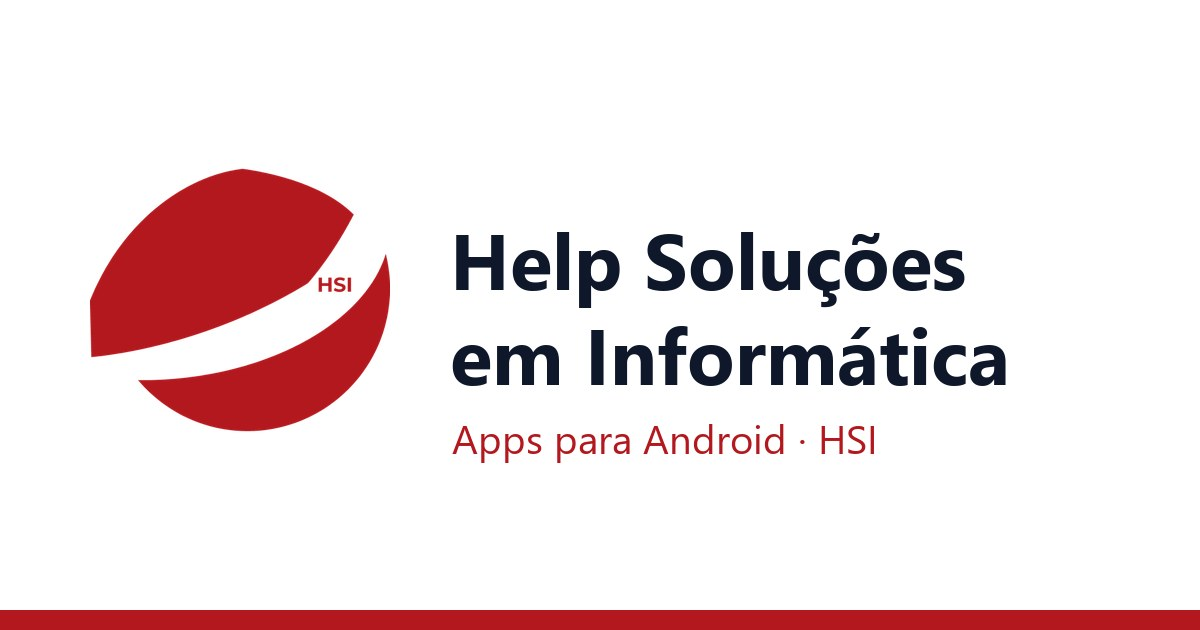
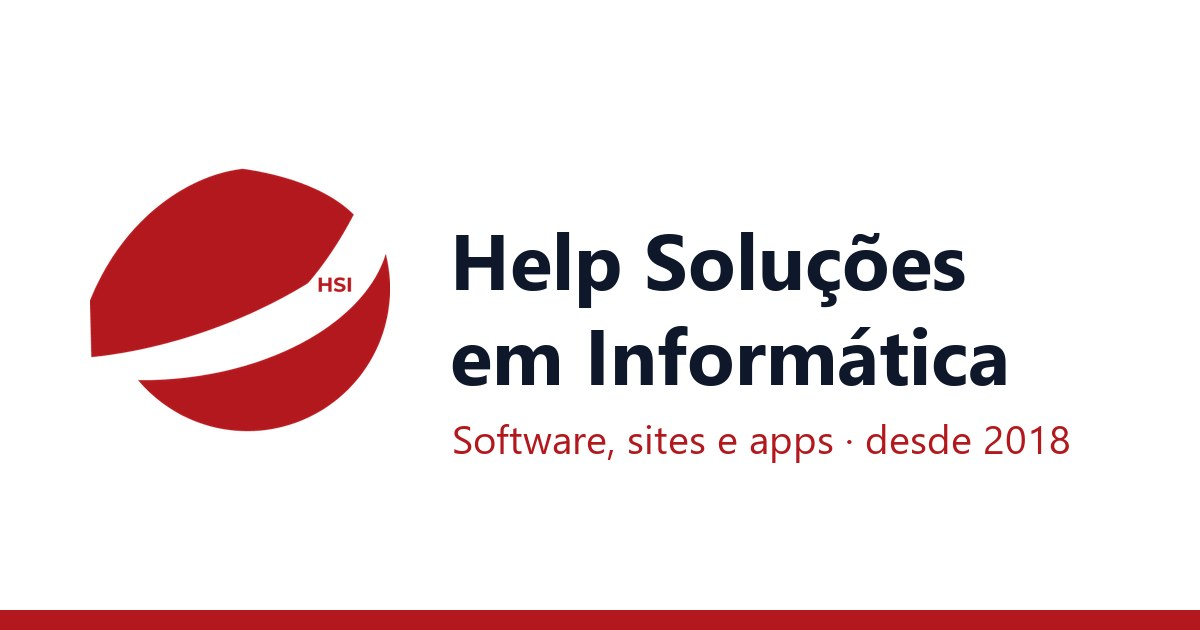
Present HSI as a software company: services, founding date, about
Services section based on the company's registered activities (custom
software, websites, apps, integrations/ERP, cloud, AI, consulting, support
and training), founding date from the CNPJ record, broader SEO and
Organization JSON-LD, apps moved to an "Apps próprios" section.

Changed region(s): [[0.37, 0.6635, 0.8942, 0.7238]]

diff --git a/src/App.tsx b/src/App.tsx
@@ -1,5 +1,6 @@
 import type { ReactNode } from 'react'
-import { apps, company, playUrl, type AppInfo } from './data/site'
+import { apps, company, playUrl, services, type AppInfo } from './data/site'
+import { Icon } from './Icons'
 import { appPath, privacyPath, resolveRoute } from './routes'
 
 function Header() {
@@ -14,6 +15,7 @@ function Header() {
           </span>
         </a>
         <nav className="nav" aria-label="Principal">
+          <a href="/#servicos">Serviços</a>
           <a href="/#apps">Apps</a>
           <a href="/#sobre">Sobre</a>
           <a href="/#contato">Contato</a>
@@ -79,23 +81,26 @@ function AppIcon({ app, size }: { app: AppInfo; size: number }) {
 }
 
 function Home() {
+  const quote = `mailto:${company.email}?subject=${encodeURIComponent('Orçamento')}`
   return (
     <>
       <section className="hero">
         <div className="container hero-inner">
           <div>
-            <p className="eyebrow">{company.shortName} · Apps para Android</p>
+            <p className="eyebrow">
+              {company.shortName} · Desde {company.foundingYear} · {company.city} – {company.state}
+            </p>
             <h1>{company.name}</h1>
             <p className="lead">
-              Apps simples e úteis para o dia a dia: organizar eventos, marcar o placar do jogo, achar o carro no
-              estacionamento e falar com uma assistente por voz.
+              Desenvolvimento de software sob encomenda, sites, apps para celular, integrações e consultoria em TI, com a
+              experiência de mais de 20 anos em tecnologia do nosso fundador.
             </p>
             <div className="hero-actions">
-              <a className="btn" href="#apps">
-                Conheça os apps
+              <a className="btn" href="#servicos">
+                Nossos serviços
               </a>
-              <a className="btn btn-ghost" href="#contato">
-                Fale com a gente
+              <a className="btn btn-ghost" href={quote}>
+                Peça um orçamento
               </a>
             </div>
           </div>
@@ -103,9 +108,34 @@ function Home() {
         </div>
       </section>
 
+      <section className="section" id="servicos">
+        <div className="container">
+          <h2 className="section-title">O que fazemos</h2>
+          <div className="service-grid">
+            {services.map(s => (
+              <article key={s.title} className="card service-card">
+                <span className="service-icon">
+                  <Icon name={s.icon} />
+                </span>
+                <h3>{s.title}</h3>
+                <p>{s.text}</p>
+                <ul className="chips" aria-label="Tecnologias">
+                  {s.tech.map(t => (
+                    <li key={t}>{t}</li>
+                  ))}
+                </ul>
+              </article>
+            ))}
+          </div>
+        </div>
+      </section>
+
       <section className="section" id="apps">
         <div className="container">
-          <h2 className="section-title">Nossos apps</h2>
+          <h2 className="section-title">Apps próprios</h2>
+          <p className="section-intro muted">
+            Além dos projetos para clientes, a {company.shortName} desenvolve e publica os seus próprios apps para Android.
+          </p>
           <div className="app-grid">
             {apps.map(app => (
               <a key={app.slug} className="card app-card" href={appPath(app)}>
@@ -126,23 +156,32 @@ function Home() {
         <div className="container narrow">
           <h2 className="section-title">Sobre a {company.shortName}</h2>
           <p>
-            A {company.name} ({company.shortName}) é uma empresa de software de {company.city} – {company.state}. Criamos
-            apps que resolvem uma coisa só, e bem: sem cadastro, sem complicação e, sempre que possível, com os seus dados
-            guardados apenas no seu celular.
+            A {company.name} ({company.shortName}) é uma empresa de tecnologia de {company.city} – {company.state}, aberta em{' '}
+            {company.foundingYear}. Ela formalizou a consultoria que o nosso fundador mantinha desde 2013, que desenvolveu
+            aplicações web para mais de 20 empresas no Brasil, na Argentina, no Peru e na Colômbia.
           </p>
           <p>
-            A empresa foi fundada por <a href={company.founderUrl}>{company.founder}</a>, engenheiro de software sênior com
-            mais de 20 anos em tecnologia.
+            O fundador, <a href={company.founderUrl}>{company.founder}</a>, é engenheiro de software sênior com mais de 20
+            anos em tecnologia e passagens por empresas como IBM, Sony, Bradesco e Jadlog. Trabalha com desenvolvimento full
+            stack, arquitetura de software, integração de sistemas, ERP, DevOps e desenvolvimento assistido por IA.
+          </p>
+          <p>
+            Nos nossos apps, seguimos uma regra simples: resolver uma coisa só, e bem, sem cadastro e, sempre que possível,
+            com os seus dados guardados apenas no seu celular.
           </p>
         </div>
       </section>
 
       <section className="section" id="contato">
         <div className="container narrow">
-          <h2 className="section-title">Contato e suporte</h2>
+          <h2 className="section-title">Contato</h2>
           <p>
-            Encontrou um problema, tem uma sugestão ou quer pedir a exclusão de dados? Escreva para{' '}
-            <a href={`mailto:${company.email}`}>{company.email}</a> e diga qual app você usa.
+            <strong>Tem um projeto?</strong> Conte o que você precisa para{' '}
+            <a href={quote}>{company.email}</a> e responderemos com uma proposta.
+          </p>
+          <p>
+            <strong>Usa um dos nossos apps?</strong> Para suporte, sugestões ou pedidos sobre os seus dados, escreva para o
+            mesmo e-mail e diga qual app você usa.
           </p>
         </div>
       </section>

diff --git a/src/data/site.ts b/src/data/site.ts
@@ -12,6 +12,9 @@ export const company = {
   founder: 'Leonardo Neves',
   founderUrl: 'https://leoneves-eng-de-software.web.app/',
   siteUrl: 'https://hsi-help-solucoes.web.app',
+  // From the public CNPJ record (Receita Federal): activity start date.
+  foundingDate: '2018-09-03',
+  foundingYear: '2018',
   logo: '/img/logo-hsi-512.png',
   ogImage: '/img/og-image.jpg',
   // Google Search Console HTML-tag token (content="..."). Empty = no tag.
@@ -21,7 +24,62 @@ export const company = {
   lastUpdatedLabel: '15 de novembro de 2026',
 }
 
-export type Permission = { name: string; why: string }
+export type ServiceIcon = 'code' | 'web' | 'mobile' | 'plug' | 'cloud' | 'ai' | 'compass' | 'wrench'
+export type Service = { icon: ServiceIcon; title: string; text: string; tech: string[] }
+
+/** Services offered (CNAEs of the company + the founder's experience). */
+export const services: Service[] = [
+  {
+    icon: 'code',
+    title: 'Sistemas sob encomenda',
+    text: 'Sistemas web e APIs feitos sob medida para o seu negócio, do levantamento de requisitos à produção.',
+    tech: ['C#/.NET', 'Java', 'Node.js', 'Python'],
+  },
+  {
+    icon: 'web',
+    title: 'Sites e aplicações web',
+    text: 'Sites institucionais, portfólios e aplicações web rápidas, responsivas e preparadas para aparecer no Google.',
+    tech: ['React', 'Angular', 'Vue', 'SEO'],
+  },
+  {
+    icon: 'mobile',
+    title: 'Apps para celular',
+    text: 'Apps Android e iOS, da ideia à publicação na loja, com a mesma experiência dos nossos apps próprios.',
+    tech: ['Ionic', 'Capacitor', 'Flutter'],
+  },
+  {
+    icon: 'plug',
+    title: 'Integrações e ERP',
+    text: 'Integração entre sistemas por APIs e customização de ERP e plataformas corporativas.',
+    tech: ['REST', 'Infor LN', 'Salesforce', 'ServiceNow'],
+  },
+  {
+    icon: 'cloud',
+    title: 'Cloud e DevOps',
+    text: 'Hospedagem, automação de infraestrutura e entrega contínua, para publicar com segurança e sem sustos.',
+    tech: ['Docker', 'Terraform', 'CI/CD', 'AWS · GCP · Firebase'],
+  },
+  {
+    icon: 'ai',
+    title: 'Inteligência artificial',
+    text: 'Chatbots, assistentes e consultas a dados em linguagem natural, integrados aos seus sistemas.',
+    tech: ['LLMs', 'NLP', 'Watson', 'Gemini'],
+  },
+  {
+    icon: 'compass',
+    title: 'Consultoria em TI',
+    text: 'Arquitetura de software, escolha de tecnologia, revisão de código e planejamento de projetos.',
+    tech: ['Arquitetura', 'Scrum', 'ITIL'],
+  },
+  {
+    icon: 'wrench',
+    title: 'Suporte, manutenção e treinamento',
+    text: 'Manutenção de sistemas existentes, suporte técnico e treinamento em informática para equipes.',
+    tech: ['Manutenção', 'Suporte', 'Treinamento'],
+  },
+]
+
+export type Permission ={ name: string; why: string }
 export type ThirdParty = { name: string; what: string; policyUrl: string }
 
 export type AppInfo = {

diff --git a/src/entry-server.tsx b/src/entry-server.tsx
@@ -1,7 +1,7 @@
 import { StrictMode } from 'react'
 import { renderToString } from 'react-dom/server'
 import App from './App'
-import { company } from './data/site'
+import { company, services } from './data/site'
 import { appPath, resolveRoute, routes } from './routes'
 
 export { company, routes }
@@ -24,6 +24,10 @@ const organization = {
   url: company.siteUrl + '/',
   logo: company.siteUrl + company.logo,
   email: company.email,
+  foundingDate: company.foundingDate,
+  areaServed: 'BR',
+  knowsAbout: services.flatMap(s => s.tech),
+  makesOffer: services.map(s => ({ '@type': 'Offer', itemOffered: { '@type': 'Service', name: s.title, description: s.text } })),
   founder: { '@type': 'Person', name: company.founder, url: company.founderUrl },
   address: { '@type': 'PostalAddress', addressLocality: company.city, addressRegion: company.state, addressCountry: 'BR' },
 }
@@ -36,10 +40,13 @@ export function head(path: string) {
 
   if (route.kind === 'home') {
     return {
-      title: `${company.name} (${company.shortName}) · Apps para Android`,
+      title: `${company.name} (${company.shortName}) · Software, sites e apps em ${company.city}`,
       description:
-        'HSI – Help Soluções em Informática: apps para Android como PlanEvento, Marcador de Jogos, K.I.R.A. e My Spot. ' +
-        'Sem cadastro, com os dados guardados no seu celular.',
+        `HSI – Help Soluções em Informática, desde ${company.foundingYear} em ${company.city}–${company.state}: software sob encomenda, ` +
+        'sites, apps para celular, integrações, cloud e consultoria em TI. Apps próprios: PlanEvento, Marcador de Jogos, K.I.R.A. e My Spot.',
+      keywords:
+        'desenvolvimento de software, software sob encomenda, criação de sites, desenvolvimento de apps, consultoria em TI, ' +
+        `integração de sistemas, ${company.city}, HSI, Help Soluções em Informática`,
       url,
       ogType: 'website',
       ogImage: company.siteUrl + company.ogImage,

diff --git a/src/Icons.tsx b/src/Icons.tsx
@@ -1,0 +1,23 @@
+import type { ServiceIcon } from './data/site'
+
+// Simple inline line icons (24x24, stroke = currentColor) for the services grid.
+const paths: Record<ServiceIcon, string[]> = {
+  code: ['M8 7l-5 5 5 5', 'M16 7l5 5-5 5', 'M13.5 4l-3 16'],
+  web: ['M12 3a9 9 0 1 0 0 18a9 9 0 1 0 0-18', 'M3 12h18', 'M12 3c2.5 2.6 3.8 5.6 3.8 9s-1.3 6.4-3.8 9c-2.5-2.6-3.8-5.6-3.8-9S9.5 5.6 12 3'],
+  mobile: ['M8 2h8a2 2 0 0 1 2 2v16a2 2 0 0 1-2 2H8a2 2 0 0 1-2-2V4a2 2 0 0 1 2-2', 'M11 18h2'],
+  plug: ['M9 2v5', 'M15 2v5', 'M6 7h12v4a6 6 0 0 1-12 0z', 'M12 17v5'],
+  cloud: ['M7 18h10a4 4 0 0 0 .6-7.95A6 6 0 0 0 6.1 9.6 4.2 4.2 0 0 0 7 18'],
+  ai: ['M12 3l1.8 4.7L18.5 9.5l-4.7 1.8L12 16l-1.8-4.7L5.5 9.5l4.7-1.8z', 'M19 15l.8 2.2 2.2.8-2.2.8L19 21l-.8-2.2-2.2-.8 2.2-.8z'],
+  compass: ['M12 3a9 9 0 1 0 0 18a9 9 0 1 0 0-18', 'M15.5 8.5l-2 5-5 2 2-5z'],
+  wrench: ['M14.7 6.3a4 4 0 0 0 5 5L22 13.6 13.6 22l-2.3-2.3a4 4 0 0 0-5-5L3 11.4 11.4 3z', 'M8 16l-5 5'],
+}
+
+export function Icon({ name }: { name: ServiceIcon }) {
+  return (
+    <svg className="icon" viewBox="0 0 24 24" width="24" height="24" fill="none" stroke="currentColor" strokeWidth="1.8" strokeLinecap="round" strokeLinejoin="round" aria-hidden="true">
+      {paths[name].map(d => (
+        <path key={d} d={d} />
+      ))}
+    </svg>
+  )
+}

diff --git a/src/index.css b/src/index.css
@@ -361,3 +361,51 @@ code {
 .nowrap {
   white-space: nowrap;
 }
+
+/* Services */
+.section-intro {
+  margin: -12px 0 24px;
+}
+.service-grid {
+  display: grid;
+  grid-template-columns: repeat(auto-fill, minmax(min(100%, 240px), 1fr));
+  gap: 16px;
+}
+.service-card {
+  padding: 20px;
+  display: flex;
+  flex-direction: column;
+}
+.service-card h3 {
+  font-size: 1.05rem;
+  margin: 12px 0 6px;
+}
+.service-card p {
+  margin: 0 0 12px;
+  font-size: 0.95rem;
+  color: var(--muted);
+}
+.service-icon {
+  display: inline-grid;
+  place-items: center;
+  width: 44px;
+  height: 44px;
+  border-radius: 12px;
+  background: var(--accent-soft);
+  color: var(--accent);
+}
+.chips {
+  list-style: none;
+  padding: 0;
+  margin: auto 0 0;
+  display: flex;
+  flex-wrap: wrap;
+  gap: 6px;
+}
+.chips li {
+  font-size: 0.75rem;
+  padding: 2px 8px;
+  border-radius: 999px;
+  border: 1px solid var(--border);
+  color: var(--muted);
+}

diff --git a/scripts/gerar_imagens.py b/scripts/gerar_imagens.py
@@ -53,6 +53,6 @@ d.rectangle((0, 610, 1200, 630), fill=RED)
 og.paste(resized(logo, 300), (90, 150), resized(logo, 300))
 d.text((450, 205), 'Help Soluções', font=ImageFont.truetype(FONT_BOLD, 78), fill=(15, 23, 42))
 d.text((450, 300), 'em Informática', font=ImageFont.truetype(FONT_BOLD, 78), fill=(15, 23, 42))
-d.text((452, 410), 'Apps para Android · HSI', font=ImageFont.truetype(FONT, 40), fill=RED)
+d.text((452, 410), 'Software, sites e apps · desde 2018', font=ImageFont.truetype(FONT, 40), fill=RED)
 og.save(IMG / 'og-image.jpg', quality=88)
 print('ok')

diff --git a/CLAUDE.md b/CLAUDE.md
@@ -1,6 +1,6 @@
 # CLAUDE.md
 
-Site da **Help Soluções em Informática (HSI)**, a empresa de Leonardo Neves (LEONARDO VINICIUS NEVES LTDA, CNPJ 31.412.990/0001-07). Apresenta os apps Android da empresa e hospeda a **política de privacidade de cada app** (URL exigida pela Google Play). Vite + React 19 + TypeScript, pré-renderizado em HTML estático e publicado no Firebase Hosting. Mesmo esquema do `leoneves-site` (pasta irmã), que é o portfólio pessoal; os dois sites têm links um para o outro.
+Site da **Help Soluções em Informática (HSI)**, a empresa de Leonardo Neves (LEONARDO VINICIUS NEVES LTDA, CNPJ 31.412.990/0001-07). Apresenta os **serviços** da empresa (software sob encomenda, sites, apps, integrações/ERP, cloud, IA, consultoria, suporte e treinamento), os **apps Android próprios** e hospeda a **política de privacidade de cada app** (URL exigida pela Google Play). O site não deve parecer só de apps: os serviços vêm primeiro. Vite + React 19 + TypeScript, pré-renderizado em HTML estático e publicado no Firebase Hosting. Mesmo esquema do `leoneves-site` (pasta irmã), que é o portfólio pessoal; os dois sites têm links um para o outro.
 
 - Produção: https://hsi-help-solucoes.web.app
 - Firebase: projeto `hsi-help-solucoes` (plano Spark, gratuito), conta lvneves2010@gmail.com. O ID `helpsolucoes` já estava tomado.
@@ -23,7 +23,8 @@ Antes de publicar: `npm run build` e `npx eslint .` sem erros. Depois, confira o
 
 | Arquivo | Conteúdo |
 | --- | --- |
-| `src/data/site.ts` | **Todo o conteúdo**: dados da empresa (`company`) e um item por app (`apps`), com textos, recursos e dados da política de privacidade |
+| `src/data/site.ts` | **Todo o conteúdo**: dados da empresa (`company`), serviços (`services`) e um item por app (`apps`), com textos, recursos e dados da política de privacidade |
+| `src/Icons.tsx` | Ícones SVG inline dos serviços |
 | `src/routes.ts` | Lista de páginas: `/`, `/apps/<slug>/` e `/apps/<slug>/privacidade/` |
 | `src/App.tsx` | Componentes de todas as páginas (home, página do app, política de privacidade) |
 | `src/entry-server.tsx` | `render(path)` e `head(path)`: título, descrição e JSON-LD (`Organization`, `MobileApplication`, `BreadcrumbList`) |
@@ -32,6 +33,9 @@ Antes de publicar: `npm run build` e `npx eslint .` sem erros. Depois, confira o
 | `public/` | Imagens, favicon e `404.html` |
 
 ## Regras
+
+- **Dados da empresa** vêm do cadastro público do CNPJ (início de atividade 03/09/2018; CNAE principal 6201-5/01 software sob encomenda; secundários: consultoria em TI, suporte/manutenção e treinamento em informática). Os serviços seguem esses CNAEs e o currículo do Leonardo (`../leoneves-site`). A consultoria própria de 2013–2018 aparece no currículo como "Symcon Group / HSI".
+- Empresas como IBM, Sony, Bradesco e Jadlog aparecem só como **carreira do fundador**, nunca como clientes da HSI.
 
 - **Em produção as páginas não carregam React**: são HTML estático e não há nenhuma interatividade. `src/main.tsx` só importa CSS e fonte; o React roda no cliente apenas no `npm run dev`. Se um dia precisar de interatividade, use `hydrateRoot` como no `leoneves-site`.
 - Tema claro/escuro segue o sistema (`prefers-color-scheme`), só com CSS.
